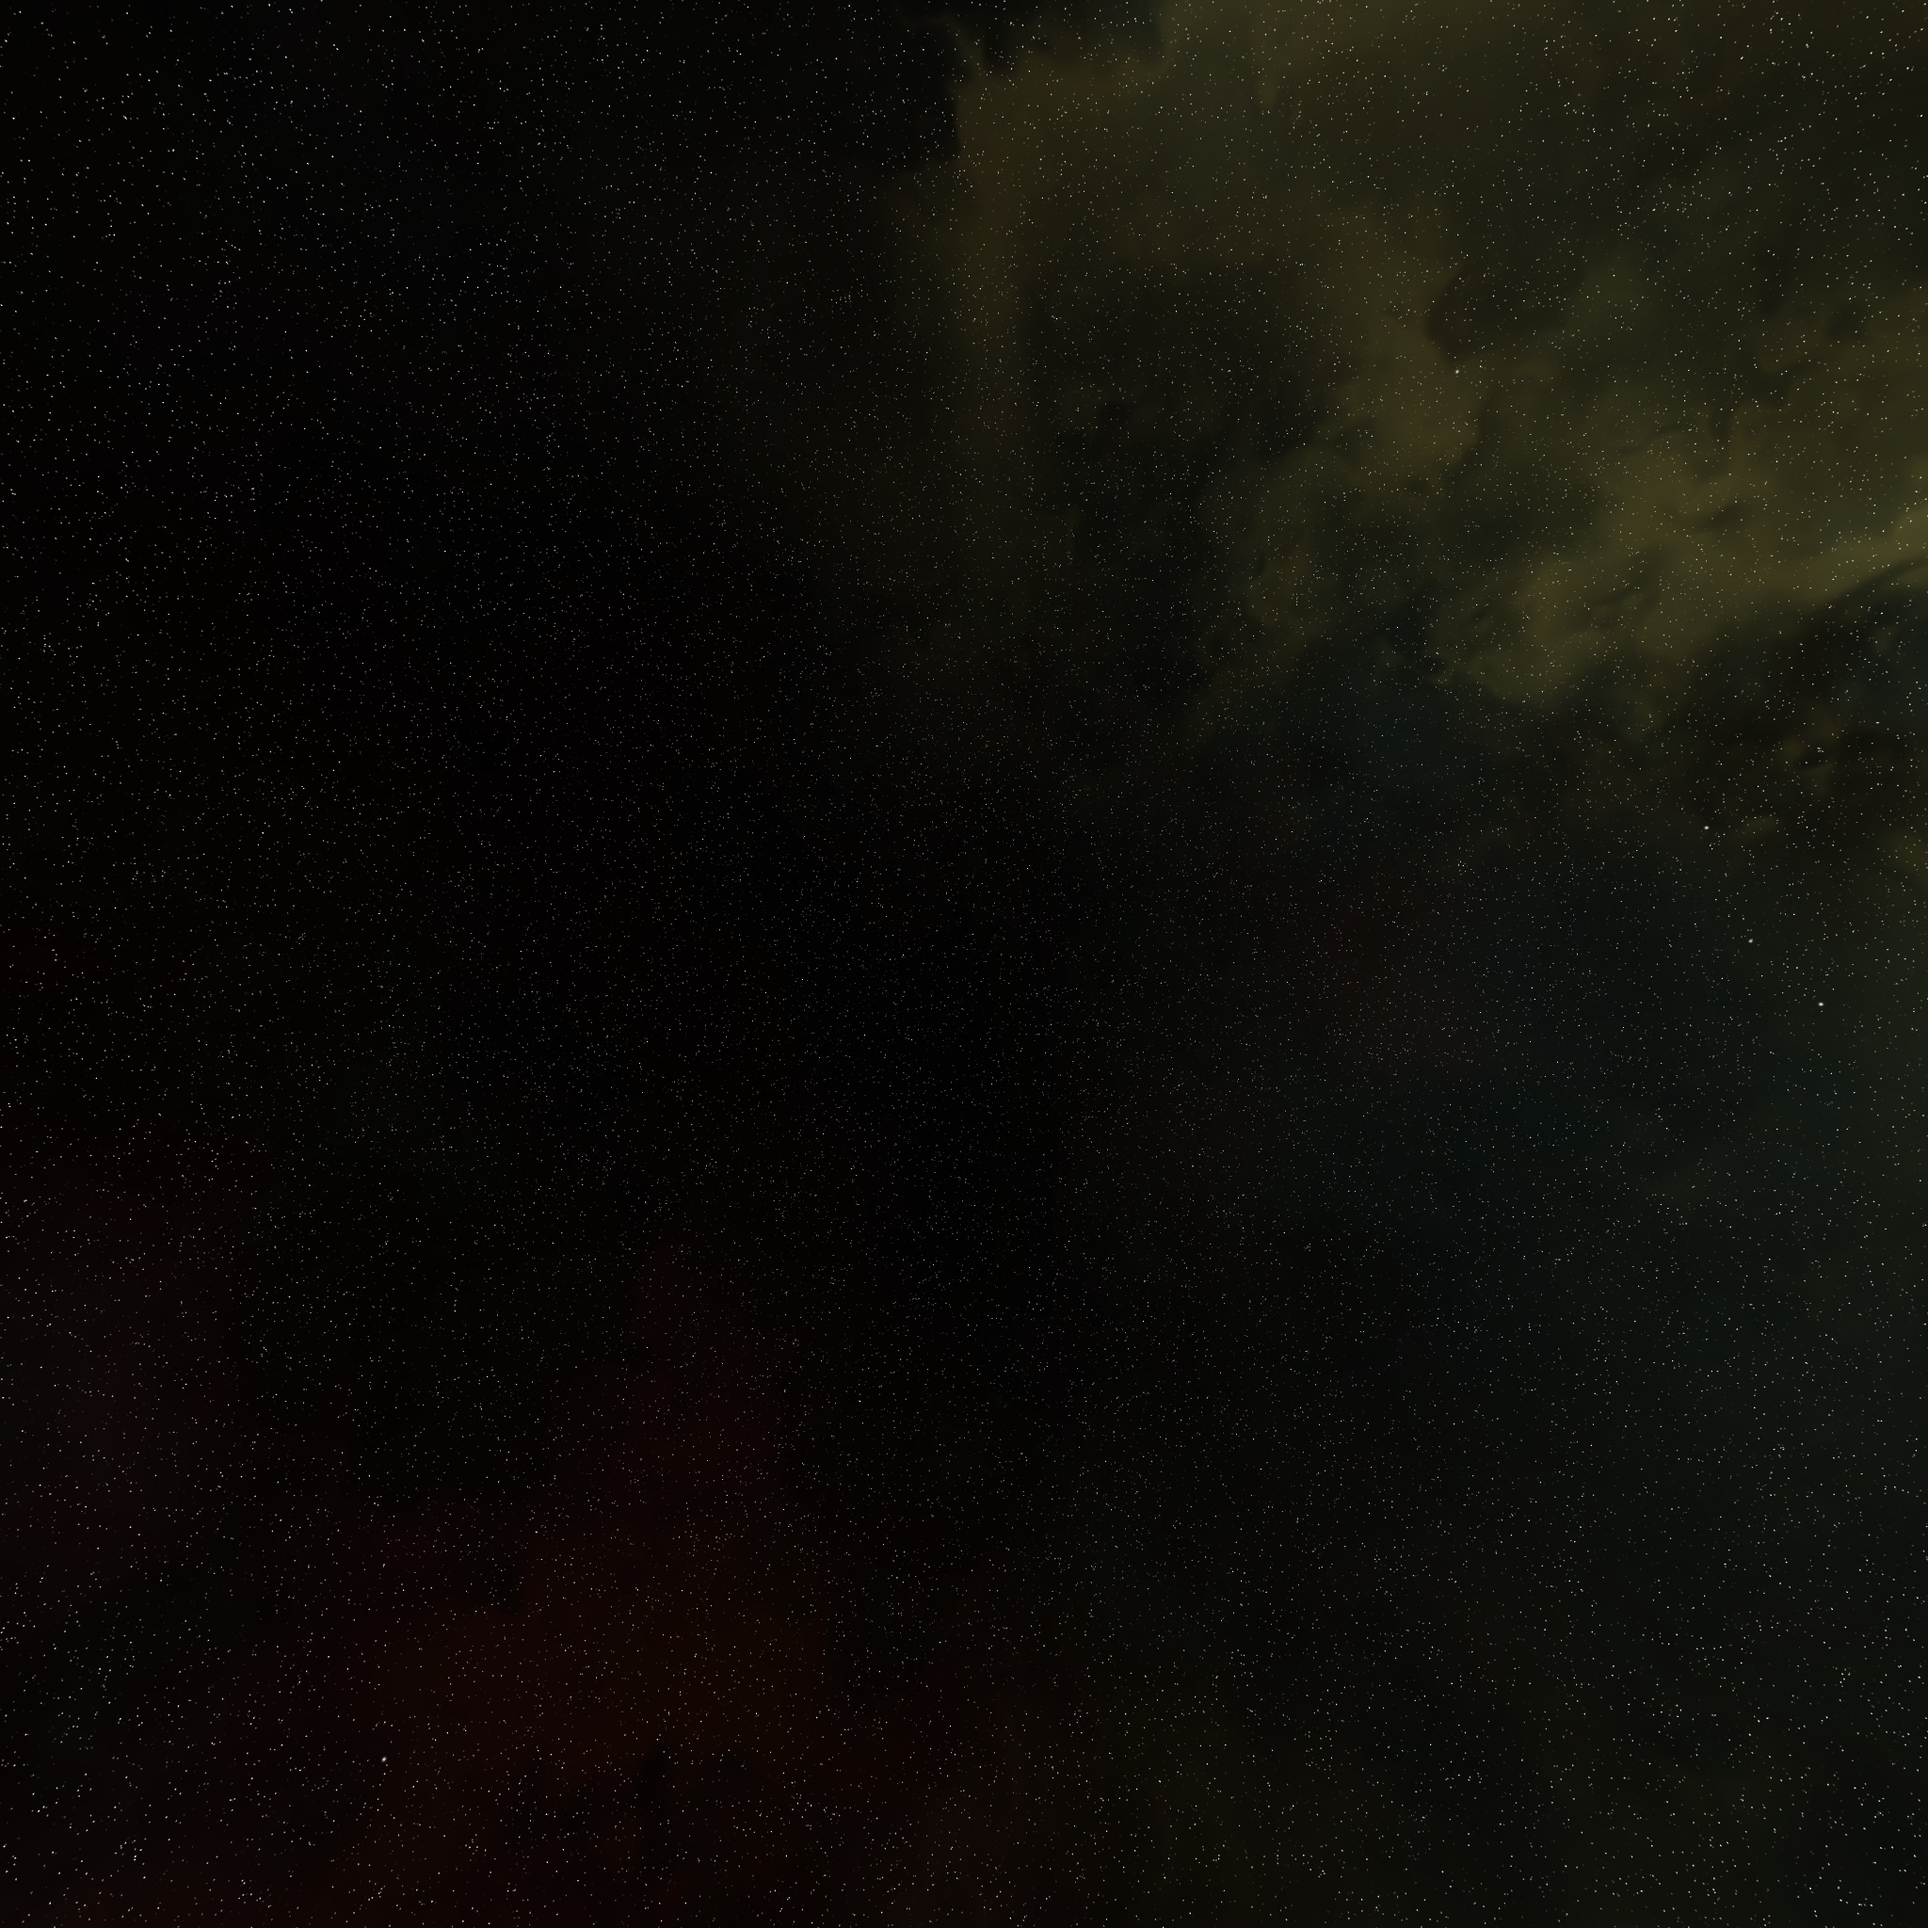
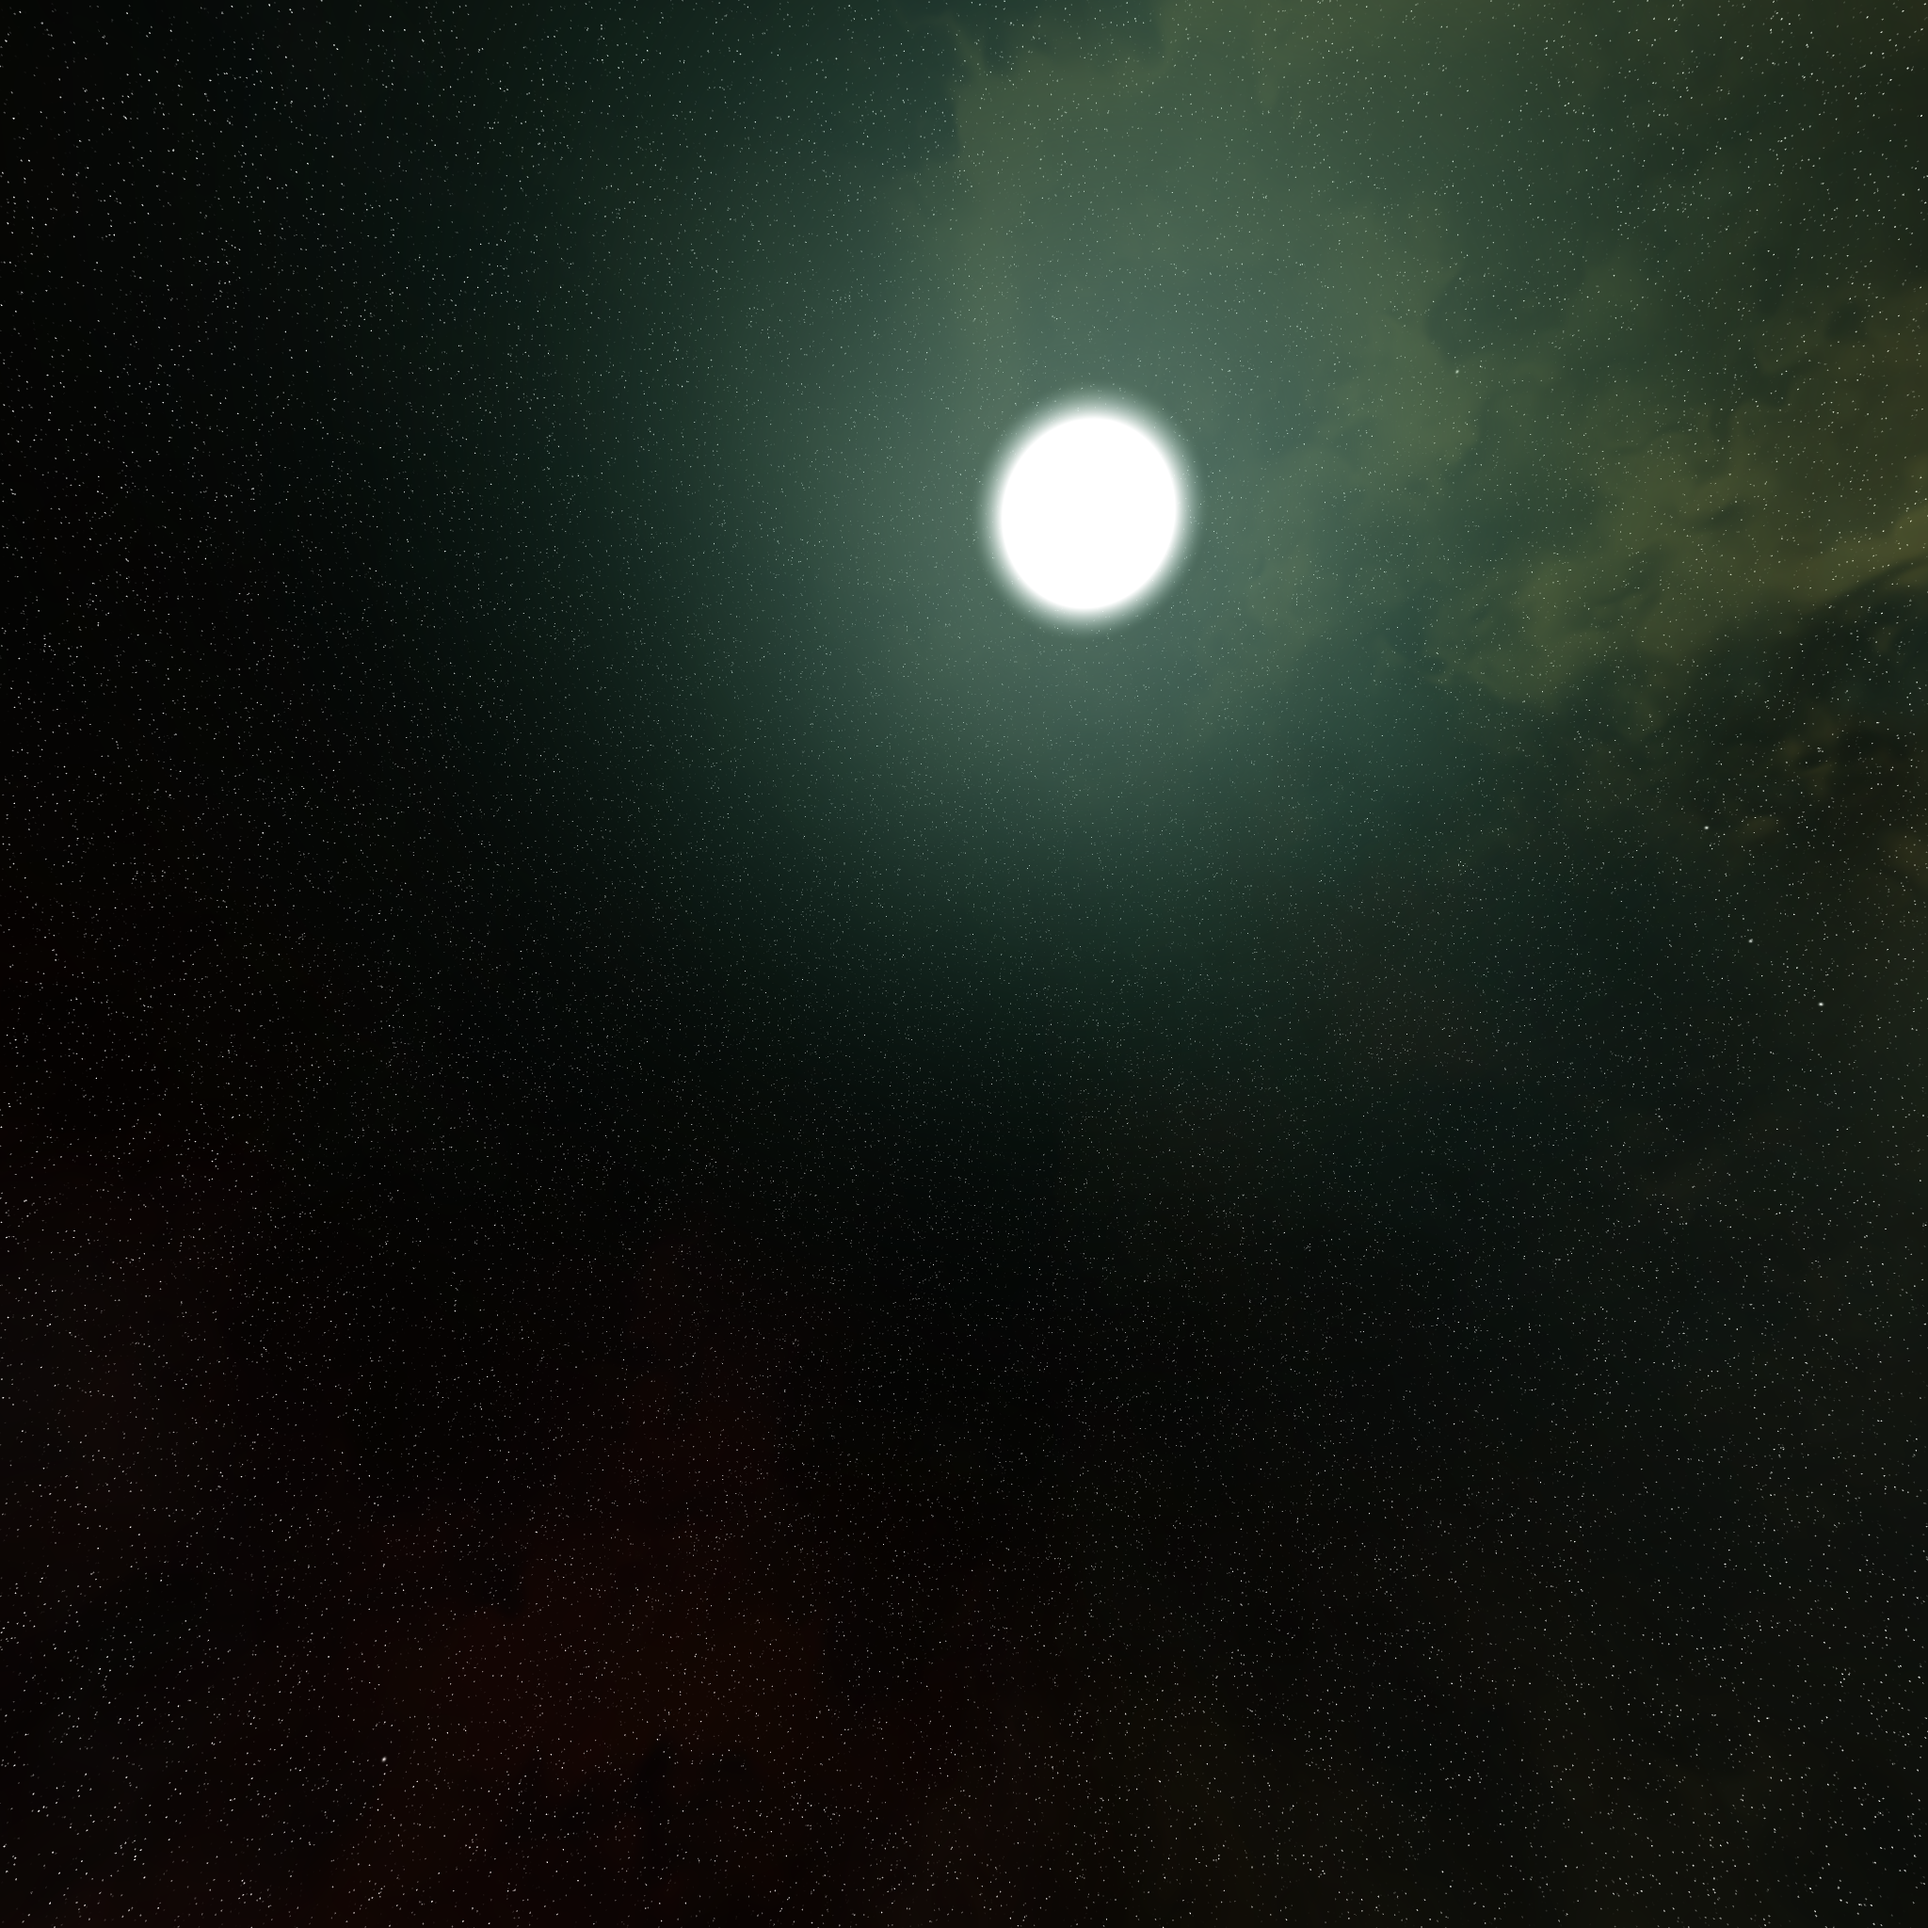
random skyboxes + lighting

Changed region(s): [[0.25, 0.0, 0.9062, 0.5625]]

diff --git a/client/src/main.rs b/client/src/main.rs
@@ -10,6 +10,7 @@ mod lasso;
 mod tracker;
 mod common;
 mod ui;
+mod init_skies;
 
 use std::collections::HashMap;
 
@@ -18,14 +19,13 @@ extern crate gl;
 extern crate glfw;
 
 use self::glfw::{Action, Context, Key, MouseButton};
-use cgmath::{perspective, vec2, vec3, Deg, Matrix4, Point3, Quaternion, Vector3, Vector2, Array, EuclideanSpace, Transform, Vector4, vec4};
+use cgmath::{perspective, vec2, vec3, Deg, Matrix4, Point3, Quaternion, Vector3, Vector2, Array, EuclideanSpace, Transform, Vector4, vec4, InnerSpace};
 
 use std::ffi::{CStr};
 
 use crate::camera::*;
 use crate::model::Model;
 use crate::shader::Shader;
-use crate::skybox::Skybox;
 
 // network
 use std::io::{self, Read};
@@ -129,7 +129,8 @@ fn main() -> io::Result<()> {
     };
 
     // textures for skybox
-    let skybox = unsafe{ Skybox::new("resources/skybox/space0", ".png") };
+    let skies = init_skies::init_skyboxes();
+    let mut sky: usize = 0;
 
     // add all models to hashmap
     let mut models: HashMap<String, Model> = HashMap::new();
@@ -210,6 +211,7 @@ fn main() -> io::Result<()> {
 
                             if lobby_ecs.start_game {
                                 println!("Game starting!");
+                                sky = lobby_ecs.sky;
                                 let start_pos = &lobby_ecs.position_components[lobby_ecs.ids[client_id]];
                                 camera.RotQuat = Quaternion::new(start_pos.qw, start_pos.qx, start_pos.qy, start_pos.qz);
                                 camera.UpdateVecs();
@@ -317,12 +319,9 @@ fn main() -> io::Result<()> {
                     shader_program.use_program();
 
                     // TODO: lighting variables (this can imported from a json file?)
-                    let light_dir = vec3(0., 0., 1.);
-                    let light_ambience = vec3(0.2, 0.2, 0.2);
-                    let light_diffuse = vec3(0.6, 0.6, 0.6);
-                    shader_program.setVector3(c_str!("lightDir"), &light_dir);
-                    shader_program.setVector3(c_str!("lightAmb"), &light_ambience);
-                    shader_program.setVector3(c_str!("lightDif"), &light_diffuse);
+                    shader_program.setVector3(c_str!("lightDir"), &skies[sky].light_dir);
+                    shader_program.setVector3(c_str!("lightAmb"), &skies[sky].light_ambience);
+                    shader_program.setVector3(c_str!("lightDif"), &skies[sky].light_diffuse);
 
                     let mut trackers = vec![];
 
@@ -344,13 +343,13 @@ fn main() -> io::Result<()> {
                                 client_health.health = c_ecs.health_components[player_key].health;
                             }
 
-                        // setup player camera
-                        let player_pos = vec3(
-                            c_ecs.position_components[player_key].x,
-                            c_ecs.position_components[player_key].y,
-                            c_ecs.position_components[player_key].z
-                        );
-                        set_camera_pos(&mut camera, player_pos, &shader_program, width, height);
+                            // setup player camera
+                            let player_pos = vec3(
+                                c_ecs.position_components[player_key].x,
+                                c_ecs.position_components[player_key].y,
+                                c_ecs.position_components[player_key].z
+                            );
+                            set_camera_pos(&mut camera, player_pos, &shader_program, width, height);
                             shader_program.setVector3(c_str!("viewPos"), &camera.Position.to_vec());
 
                             for &renderable in &c_ecs.renderables {
@@ -377,6 +376,8 @@ fn main() -> io::Result<()> {
 
                                 let model = pos_mat * scale_mat * rot_mat;
                                 shader_program.set_mat4(c_str!("model"), &model);
+                                let model_scaleless = pos_mat * rot_mat;
+                                shader_program.set_mat4(c_str!("model_scaleless"), &model_scaleless);
                                 let model_name = &c_ecs.model_components[renderable].modelname;
                                 models[model_name].draw(&shader_program);
                             }
@@ -449,7 +450,8 @@ fn main() -> io::Result<()> {
                         0.1,
                         100.0
                     );
-                    skybox.draw(camera.GetViewMatrix(), projection);
+                    // println!("{:?}",camera.Front);
+                    skies[sky].skybox.draw(camera.GetViewMatrix(), projection);
 
                     ui_elems.draw_game(client_health.alive, client_ammo);
 

diff --git a/server/src/ecs.rs b/server/src/ecs.rs
@@ -4,11 +4,10 @@ use slotmap::{SlotMap, SecondaryMap, DefaultKey, Key, KeyData};
 use std::str;
 use std::io::{Read, Write, self};
 use std::net::TcpListener;
-use rand::{thread_rng,seq::IteratorRandom};
 
 use shared::*;
 use shared::shared_components::*;
-use crate::{server_components::*, init_world::*};
+use crate::{server_components::*, init_world::*, common::*};
 
 
 type Entity = DefaultKey;
@@ -50,6 +49,8 @@ pub struct ECS {
     pub renderables: Vec<Entity>,
 
     pub spawnpoints: Vec<Isometry3<f32>>,
+    pub skies: Vec<usize>,
+    pub sky: usize,
     pub active_players: u8,
     pub game_ended: bool,
 }
@@ -93,6 +94,8 @@ impl ECS {
             renderables: vec![],
 
             spawnpoints: vec![],
+            skies: vec![],
+            sky: 0,
             active_players: 0,
             game_ended: false,
         }
@@ -143,6 +146,10 @@ impl ECS {
 
         init_world(self);
         init_player_spawns(&mut self.spawnpoints);
+        if self.skies.is_empty() {
+            self.skies = (0..init_num_skies()).collect();
+        }
+        self.sky = get_rand_from_vec(&mut self.skies);
 
         for &player in &self.players {
             if !self.network_components[player].connected {
@@ -158,7 +165,7 @@ impl ECS {
                 eprintln!("Ran out of player spawnpoints, reusing");
                 init_player_spawns(&mut self.spawnpoints);
             }
-            let player_pos = self.spawnpoints.swap_remove((0..self.spawnpoints.len()).choose(&mut thread_rng()).unwrap());
+            let player_pos = get_rand_from_vec(&mut self.spawnpoints);
             self.position_components[player] = PositionComponent{
                 x: player_pos.translation.x,
                 y: player_pos.translation.y,
@@ -476,6 +483,7 @@ impl ECS {
             ready_players: self.ready_players.clone(),
             players: self.players.clone(),
             ids: self.ids.clone(),
+            sky: self.sky.clone(),
             start_game: start_game,
         }
     }
@@ -501,7 +509,7 @@ impl ECS {
             eprintln!("Ran out of player spawnpoints, reusing");
             init_player_spawns(&mut self.spawnpoints);
         }
-        let player_pos = self.spawnpoints.swap_remove((0..self.spawnpoints.len()).choose(&mut thread_rng()).unwrap());
+        let player_pos = get_rand_from_vec(&mut self.spawnpoints);
         self.position_components.insert(player, PositionComponent{
             x: player_pos.translation.x,
             y: player_pos.translation.y,

diff --git a/client/src/init_skies.rs b/client/src/init_skies.rs
@@ -1,0 +1,35 @@
+use cgmath::{Vector3, vec3, InnerSpace};
+use serde::Deserialize;
+use std::fs;
+
+use crate::skybox::Skybox;
+
+#[derive(Deserialize)]
+struct LoadSky {
+    path: String,
+    light_dir: (f32, f32, f32),
+    light_diffuse: (f32, f32, f32),
+    light_ambience: (f32, f32, f32)
+}
+
+pub struct Sky {
+    pub skybox: Skybox,
+    pub light_dir: Vector3<f32>,
+    pub light_diffuse: Vector3<f32>,
+    pub light_ambience: Vector3<f32>,
+}
+
+pub fn init_skyboxes() -> Vec<Sky> {
+    let mut skies = vec![];
+    let j = fs::read_to_string("resources/skybox/skies.json").expect("Error reading file resources/skybox/skies.json");
+    let loadskies: Vec<LoadSky> = serde_json::from_str(&j).expect("Error deserializing resources/skybox/skies.json");
+    for loadsky in loadskies {
+        skies.push(Sky {
+            skybox: unsafe{ Skybox::new(&loadsky.path, ".png") },
+            light_dir: vec3(loadsky.light_dir.0, loadsky.light_dir.1, loadsky.light_dir.2).normalize(),
+            light_diffuse: vec3(loadsky.light_diffuse.0, loadsky.light_diffuse.1, loadsky.light_diffuse.2),
+            light_ambience: vec3(loadsky.light_ambience.0, loadsky.light_ambience.1, loadsky.light_ambience.2) 
+        });
+    }
+    skies
+}

diff --git a/server/src/init_world.rs b/server/src/init_world.rs
@@ -1,5 +1,5 @@
 use crate::ecs::*;
-use rapier3d::{dynamics::RigidBodySet, geometry::{ColliderSet,SharedShape}};
+use rapier3d::geometry::SharedShape;
 use nalgebra::{Isometry3, Translation3, UnitQuaternion, point, Point3};
 use serde::Deserialize;
 use std::fs;
@@ -130,4 +130,19 @@ pub fn init_player_spawns(spawnpoints: &mut Vec<Isometry3<f32>>) {
         };
         spawnpoints.push(Isometry3::from_parts(Translation3::new(spawn.pos.0, spawn.pos.1, spawn.pos.2), rot));
     }
+}
+
+#[derive(Deserialize)]
+#[allow(dead_code)]
+struct LoadSky {
+    path: String,
+    light_dir: (f32, f32, f32),
+    light_diffuse: (f32, f32, f32),
+    light_ambience: (f32, f32, f32)
+}
+
+pub fn init_num_skies() -> usize {
+    let j = fs::read_to_string("../client/resources/skybox/skies.json").expect("Error reading file ../client/resources/skybox/skies.json");
+    let loadskies: Vec<LoadSky> = serde_json::from_str(&j).expect("Error deserializing ../client/resources/skybox/skies.json");
+    loadskies.len()
 }

diff --git a/server/src/main.rs b/server/src/main.rs
@@ -7,8 +7,10 @@ use polling::{Event, Poller};
 mod ecs;
 mod init_world;
 mod server_components;
+mod common;
 
 use shared::*;
+use crate::common::*;
 
 fn main() {
     let gravity = vector![0.0, 0.0, 0.0];
@@ -20,6 +22,8 @@ fn main() {
 
     init_world::init_world(&mut ecs);
     init_world::init_player_spawns(&mut ecs.spawnpoints);
+    ecs.skies = (0..init_world::init_num_skies()).collect();
+    ecs.sky = get_rand_from_vec(&mut ecs.skies);
 
     // connection state -- 0.0.0.0 listens to all interfaces on given port
     let listener = TcpListener::bind("0.0.0.0:".to_string() + &PORT.to_string()).expect("Error binding address");

diff --git a/shared/src/shared_components.rs b/shared/src/shared_components.rs
@@ -84,6 +84,7 @@ pub struct LobbyECS {
     pub ready_players: SecondaryMap<Entity, bool>,
     pub players: Vec<Entity>,
     pub ids: Vec<Entity>,
+    pub sky: usize,
     pub start_game: bool
 }
 
@@ -95,6 +96,7 @@ impl LobbyECS {
             ready_players: SecondaryMap::new(),
             players: vec![],
             ids: vec![],
+            sky: 0,
             start_game: false,
         }
     }

diff --git a/server/src/common.rs b/server/src/common.rs
@@ -1,0 +1,5 @@
+use rand::{thread_rng,seq::IteratorRandom};
+
+pub fn get_rand_from_vec<T>(vec: &mut Vec<T>) -> T {
+    vec.swap_remove((0..vec.len()).choose(&mut thread_rng()).unwrap())
+}
